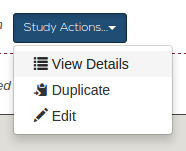
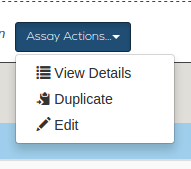
Help page v2

diff --git a/app/views/help.html b/app/views/help.html
@@ -15,103 +15,110 @@
 		<div class="row">
 			<div class="col-xs-12">
 				<div class="well text-center">
-					<em>Jump to</em>: <a ng-click="scrollTo('overview')"><strong class="nexa">Data Overview</strong></a> | <a ng-click="scrollTo('adding-data')"><strong class="nexa">Adding data</strong></a> | <a ng-click="scrollTo('chembl')"><strong class="nexa">Depositing data to Chembl</strong></a> | <a ng-click="scrollTo('searching')"><strong class="nexa">Searching AssayReg</strong></a>
+					<em>Jump to</em>: <a ng-click="scrollTo('overview')"><strong class="nexa">Data Overview</strong></a> | <a ng-click="scrollTo('adding-data')"><strong class="nexa">Adding data</strong></a> | <a ng-click="scrollTo('searching')"><strong class="nexa">Searching AssayReg</strong></a> | <a ng-click="scrollTo('chembl')"><strong class="nexa">Depositing data to Chembl</strong></a> 
 				</div>
 				
 				
 				<h2 class="blue" id="problem">What to do if you have a problem</h2>
-				<p><strong class="nexa blue">If you encounter a problem with anything to do with AssayReg, and this help document does not provide the answer you need, you can use the AssayReg menu box to submit an issue - click the AssayReg logo and select <strong>Report an Issue</strong> Alternatively please contact ChemBio Hub by email at <a href="mailto:info@chembiohub.ox.ac.uk">info@chembiohub.ox.ac.uk</a></strong></p>
+				<p><strong class="nexa blue">If you encounter a problem with AssayReg, and this help document does not provide the answer please use the AssayReg menu box to submit an issue - click the AssayReg logo and select <em>Report an Issue</em> Alternatively please email ChemBio Hub - <a href="mailto:info@chembiohub.ox.ac.uk" role="button" class="btn btn-default"><span class="glyphicon glyphicon-envelope"></span> info@chembiohub.ox.ac.uk</a></strong></p>
 
 				<h2 class="blue" id="loggingin">Logging in and initial screen</h2>
-				<p>When you first successfully log onto AssayReg, you will see a list of available projects. A system administrator is responsible for adding you to projects, which will then be displayed in this list. If you think you should be able to access a project via this list and can't, please contact ChemBio Hub.</p>
-				<p>Each project has a number of options available to you:
+				<p>When you log onto AssayReg, you will see a list of the projects you have been given access to. If you think you should be able to access a project not shown in this list, please contact ChemBio Hub <a href="mailto:info@chembiohub.ox.ac.uk" role="button" class="btn btn-default"><span class="glyphicon glyphicon-envelope"></span> info@chembiohub.ox.ac.uk</a> </p>
+				<p>Each project has a number of options available:
 					<img src="images/help/project-list-item.png" class="img img-responsive center-block">
 					<ul>
-						<li><strong>Project Overview</strong> - click the project title to be taken to the Project Overview page;</li>
-						<li><strong>Add</strong> - Add data to the project via the Project Overview page, subject to the correct access permisions;</li>
-						<li><strong>Search</strong> - Search data in the project via the search page - the project will be preselected, enabling you to filter results further.</li>
+						<!-- <li><strong>Project Data Overview</strong> - click the project title to be taken to the Project Data Overview page;</li> -->
+						<li><strong>Assay</strong> - click <strong>Data Overview</strong> to be taken to the Project Data Overview page;</li>
+						<li><strong>Chem</strong> - you can <strong>Add Compounds</strong> if you have the correct permissions or <strong>Search Compounds</strong></li>
 					</ul>
 				</p>
 
 				<h2 class="blue" id="overview">Project Data Overview</h2>
-				<p>For each project, there is a data overview page. This displays all of the data present in the project, separated out into three levels: <strong>Study</strong>, <strong>Assay</strong> and <strong>Activity</strong>.</p>
+				<p>For each project, there is a data overview page. This displays all of the data present in the project, separated out into three levels: <strong>Sub-Project</strong>, <strong>Assay</strong> and <strong>Activity</strong>.</p>
 
 				<h3 class="blue" id="sections-explained">Project sections - an explanation</h3>
 				<p>Each Project contains 3 sections:
 					<ul>
-						<li><strong>Study</strong> - A study normally holds details for a collection of different assays, for example a set of different Characterisation experiments on a particular drug target.</li>
-						<li><strong>Assay</strong> - An assay normally holds details of experimental protocols and method development, for example data which needs to be provided to make the assay reproducible. Assays can belong to multiple different studies.</li>
-						<li><strong>Activity</strong> - An activity holds the outcome of one pass of an assay, usually machine readouts or more qualitative data. Activity data is specific to a given Assay.</li>
+						<li><strong>Sub-Project</strong> - A sub-project normally holds details for a collection of different assays, for example a set of different Characterisation experiments on a particular drug target.</li>
+						<li><strong>Assay</strong> - An assay normally holds details of experimental protocols and method development, for example data which needs to be provided to make the assay reproducible. Assays can belong to multiple different Sub-Projects.</li>
+						<li><strong>Activity</strong> - An activity holds the single outcome of an Assay, usually machine readouts or more qualitative data. Activity data is specific to a given Assay.</li>
 					</ul>
 				</p>
 
 				<h3 class="blue" id="show-details">Show details</h3>
-				<p>You can see the data for a particular level by clicking the appropriate Actions button and clicking View Details. This will open a popup window with the data loaded.</p>
+				<p>You can see the data for a particular level by clicking the appropriate <strong>Actions</strong> button and clicking View Details. This will open a popup window.</p>
 				<p><img src="images/help/view-details.png" class="img img-responsive center-block"> <img src="images/help/details-modal.png" class="img img-responsive center-block"></p>
 				<p></p>
 
+				<h3 class="blue">Editing</h3>
+				<p>If you have the correct privileges, you can edit data at the Project, Sub Project or Assay level. Click the appropriate <strong>Actions</strong> button and click Edit. A popup window will launch with editable fields containing the data. Make your changes and click <strong>Update and Close</strong>.</p>
+
+				<h3 class="blue">Duplicating</h3>
+				<p>If you have the correct privileges, you can duplicate data at the Project, Sub Project or Assay level. Click the appropriate <strong>Actions</strong> button and click Duplicate. A form will be displayed, similar to the Add Single form (discussed below), with editable fields containing the data. Make any changes, add new data if needed and click <strong>Submit</strong>. this will create a new entity which will be displayed in the Data Overview page.</p>
+
 				<h3 class="blue" >Activity</h3>
-				<p>Activity data for a particular assay is displayed as a table. You can page through the data easily using the buttons at the bottom of the table. If your table contains a lot of data, you can use the scrollbar at the bottom of the table to slide the table from side to side to see all the data.</p>
-				<p>Each row of the Activities table contains a <strong>Duplicate</strong> link in the first column. Clicking this allows you to add a new Activity data point via the Add Single Activity form, with the data from this row prepopulated into the form. Adding Data is discussed in more depth below.</p>
-				<p>If your Activity data contains a UOX ID as used in ChemReg, the system will attempt to load a structure image of that identifier into the table.</p>
+				<p>Activity data for a particular assay is displayed as a table. You can page through the data easily using the buttons at the bottom of the table. If your table contains a lot of columns, you can use the horizontal scrollbar.</p>
+				<p>Each row of the Activities table contains a <strong>Duplicate</strong> link in the first column. This allows you to add a new Activity record via the Add Single Activity form, with the data from this row prepopulated into the form. Adding Data is discussed in more depth below.</p>
+				<p>If your Activity data references a specific compound, an image of that structure will be shown, provided the UOX ID is registered in this project.</p>
 
 				<h3 class="blue" >Filtering activities</h3>
 				<p><img src="images/help/filter-and-download.png" class="img img-responsive center-block"></p>
 				<p></p> 
-				<p>At the top of the Activities section, there is a text box which allows you to filter the Activities based on text entered here. So for example, if you type "dichloro" into the text box, the Activities table will only show rows that contain "dichloro" in any of the columns.</p>
+				<p>At the top of the Activities section is a filter text box. So for example, if you type "dichloro" into the text box, the Activities table will only show rows that contain "dichloro" in any of the columns.</p>
 
 				<h3 class="blue" >Export</h3>
-				<p>Next to the text box on the activities table, there is a Download button. This allows you to download all the results in the table as an Excel file. The downloaded file will include any text filtering you have added - so if you have typed "dichloro" into the search box, your downloaded results will contain only results with "dichloro" in any of the fields. To download unfiltered results, just delete any text from the text box.</p>
+				<p>The <strong>Download</strong> button allows you to download all the results in the table as an Excel file. To download all activity records, ensure the filter text box is blank. Any filteringapplied will be reflected in the exported file.</p>
 
 				<h2 class="blue" id="adding-data">Adding data</h2>
 				<p>If you have the correct permissions, you can add data to the system through the AssayReg user interface.</p>
 
 				<h3 class="blue" >Single record</h3>
 				<p>Adding a single record is the simplest means of getting data into the system. Click <strong>Add Single Activity</strong> and select the correct Assay template to use from the list shown.</p>
-				<p>A form is then displayed with blank fields, each field has a brief explanation of what it represents. Specific datatypes may have special inputs - dates for example may show a datepicker/calendar field.</p>
+				<p><img src="images/help/single-activity-button.png" class="img img-responsive center-block"></p>
+				<p>A form is then displayed with a placeholder for each field defined in this specific assay. Some fields will be limited in what can be input- for example dates will show a datepicker/calendar field.</p>
 				<p><img src="images/help/single-activity.png" class="img img-responsive center-block"></p>
-				<p>When you have added the necessary data, click the Submit button. Your data will be saved and you will be able to view it in the data overview page.</p>
+				<p>When you have added the necessary data, click the Submit button. Your data will be saved and will be vsible in the Activity table.</p>
 
 				<h3 class="blue" >Multiple records (via upload)</h3>
-				<p>To add multiple records to AssayReg in one go, you will need your data in an Excel format. You are able to download a template of the data format by clicking <strong>Upload Multiple Activities</strong> then click <strong>Download (activity) Template</strong> if you would like all of the fields which have been set up for the Assay listed. You can then use this to add your data for a smooth upload.</p>
+				<p>You can add multiple records to AssayReg from an Excel file. To use an accurate list of all relevant fields for the specific assay you can download a template of the data format by clicking <strong>Upload Multiple Activities</strong> then click <strong>Download (activity) Template</strong>. You can then use this to add your data for a smooth upload.</p>
 
-				<p>If instead you have data within another spreadsheet, for example from another lab or from machine outputs, with extra fields that are not required for the Assay you're adding data to, you can also upload that data but you may need to map your data, which is explained later in this document. </p>
+				<p>If you have data in a different spreadsheet format, for example from another lab or from machine outputs, you can also upload that data but you may need to map some or all your data, which is explained later in this document. </p>
 
 				<p>For simple file uploads, follow these steps:<br>
 					<ul>
 						<li>
-							Select the Sub-project and Assay you wish to register the data to. Select ‘Upload multiple activities’. Select the Assay definition you wish to submit your data to.<br>
+							Within the Sub-project and Assay you wish to register the data to, select ‘Upload Multiple Activities’. Select the Assay definition relevant to your data.<br>
 							<p><img src="images/help/multiple-activities-1.png" class="img img-responsive center-block"><br></p>
 						</li>	
 						<li>
-							Select the Assay definition you wish to submit your data to.<br>
-						</li>	
-						<li>
-							A file upload dialog should now be shown. Click upload and choose your data file.<br>
+							Drag your file into the space shown or click upload and choose your data file.<br>
 							<p><img src="images/help/multiple-activities-2.png" class="img img-responsive center-block"><br></p>
 						</li>	
 						<li>
-							If your file contains multiple tabs, select the appropriate one. The data will be previewed below.<br>
+							If your file contains multiple tabs, select the relevant one. The data will be previewed below.<br>
 							<p><img src="images/help/multiple-activities-3.png" class="img img-responsive center-block"><br></p>
 						</li>	
 						<li>
-							If there are no unmapped required fields for this upload, you can click ‘Save this sheet’. Your data is now registered to your project in AssayReg. <br>
+							If all mandatory fields which can't be mapped from your file, you can click ‘Save this sheet’. Your data is now registered to your project in AssayReg. <br>
 							<p><img src="images/help/multiple-activities-4.png" class="img img-responsive center-block"><br></p>
 						</li>
 					</ul>
 				</p>
 
 				<h3 class="blue" >Data mapping</h3>
-				<p>If you are uploading data for your Activities from a file containing lots of supplementary data, you may have to specify which columns in your file correspond to which Activity columns. This is especially important where there are <em>mandatory</em> fields for the specified Activity - that is to say, fields which cannot be empty for a single result.</p>
+				<p>If you are uploading data from a file containing supplementary data, you may have to specify which columns in your file correspond to which Activity columns. This is especially important where there are <em>mandatory</em> fields for the specified Activity - that is to say, fields which cannot be empty for a single result.</p>
 
 				<p>AssayReg uses data mapping to help with data integrity and also to allow conversion to formats required by public databases such as <a href="https://pubchem.ncbi.nlm.nih.gov/about.html" target="_blank">PubChem</a> and <a href="https://www.ebi.ac.uk/chembl/" target="_blank">ChEMBL</a>.</p>
 
 				<h3 class="blue" >Auto mapping</h3>
-				<p>AssayReg will attempt to "automap" your columns to the Activity columns. Columns in your file which match columns in the Activity correctly have a green mapping icon <span class="glyphicon glyphicon-random text-success"></span> . Columns in your file which cannot be automapped have a yellow mapping icon <span class="glyphicon glyphicon-random text-warning"></span> .</p>
+				<p>AssayReg will attempt to "automap" your columns to the Activity columns. Columns in your file with a matching column in the Activity have a green mapping icon <span class="glyphicon glyphicon-random text-success"></span> . Columns in your file which cannot be automapped have a yellow mapping icon <span class="glyphicon glyphicon-random text-warning"></span> .</p>
 
-				<p>You may want to map a column in your file to an Activity column manually if the names are slightly different - for example, you may have a column called "1st Run" in your file and a column called "1st Observation" in the Activity table. They have the same meaning for your work but have been labelled differently. To do this, click the mapping icon in the column you want to map.<br>
+				<p>You will need to map a column in your file to an Activity column manually if the names are slightly different - for example, you may have a column called "1st Run" in your file and a column called "1st Observation" in the Activity table. They have the same meaning for your work but have been labelled differently. To do this, click the mapping icon in the column you want to map.<br>
 					<!-- image -->
 				</p>
+				<p><img src="images/help/filter-icon.png" class="img img-responsive center-block"><br></p>
+				<p>A window wil display which will allow you to specify the field you wish to map to.</p>
+				<p><img src="images/help/mapping-popup.png" class="img img-responsive center-block"><br></p>
 
 				<h3 class="blue" >Unmappable fields</h3>
 				<p>Unmappable fields are caused by data fields in your file not matching the type expected by AssayReg for the Assay you are adding to. For example, you may be mapping your column containing text descriptions to a column expecting numerical values or dates.</p> 
@@ -119,31 +126,33 @@
 				<p>Unmappable fields are shown in the mapping popup window for a particular column. You will see a message stating that there is a data type conflict, and the rows causing the issue (together with the row value) are displayed in a table.</p>
 				<p><img src="images/help/unmappable-fields.png" class="img img-responsive center-block"></p>
 
-				<p>If this happens you should correct the data in your excel file, and try uploading again. If you believe your data to be in the correct format, you should speak to an AssayReg administrator.</p>
+				<p>If this happens you should correct the data in your Excel file, and try uploading again. If you believe your data to be in the correct format, you should contact an AssayReg administrator. <a href="mailto:info@chembiohub.ox.ac.uk" role="button" class="btn btn-default"><span class="glyphicon glyphicon-envelope"></span> info@chembiohub.ox.ac.uk</a></p>
 
 				<h3 class="blue" >Save</h3>
-				<p>Once all of your fields are mapped, you are able to click <strong>Save This Sheet</strong>. Yor data will be saved, the Data Overview page will reload and you will be able to see your data.</p>
+				<p>Once all of your fields are mapped, you are able to click <strong>Save This Sheet</strong>. Your data will be saved, and will be visible in the activities table.</p>
 
 				<h2 class="blue" id="searching">Search page</h2>
-				<p>AssayReg allows you to search for data across projects, studies and assays via the Search Page. You can also carry out text searches via the search bar at the top of every page (including this one).</p>
+				<p>AssayReg allows you to search for data across Projects, Sub-Projects and Assays via the Search Page. You can also carry out text searches via the search bar at the top of every page (including this one).</p>
 
-				<p>The search bar allows you to type text and matches for that text will be instantly displayed. If there are hits for the phrase within Assay, Study or Project titles, you can click those links and see data for that item in the search page.</p>
+				<p>The search bar allows you to type text, with matches for that text displayed instantly below. If the text matches any value in  Assay, Sub-Project or Project titles, you can click those links and see data for that item in the search page.</p>
 
 				<p><img src="images/help/searchbar.png" class="img img-responsive center-block"></p>
 
 				<p>You are also able to search for your text phrase easily on <a href="https://pubchem.ncbi.nlm.nih.gov/about.html" target="_blank">PubChem</a> - just click the link at the bottom, a new window or tab will open in your browser and you will see results for your search displayed on the PubChem website.</p>
 
+				<p>The search results page is shown when you click the <strong>Go</strong> button next to the search bar or select an option below the search bar.</p>
+
 				<h3 class="blue" >Filters</h3>
 				<p>The Search Page allows you to filter the results shown in a number of ways. Whenever a filter is used, the results are updated automatically.</p>
 
 				<h3 class="blue" >Dates</h3>
-				<p>You can specify a date range for when records were added to the system - use the <strong>Activity Date From</strong> and <strong>Activity Date To</strong> datepicker widgets to specify your dates. Results are updated automatically.</p>
+				<p>You can specify a date range for when records were added to the system - use the <strong>Activity Date From</strong> and <strong>Activity Date To</strong> calendar fields to specify your dates. Results are updated automatically.</p>
 
 				<h3 class="blue" >User</h3>
-				<p>You can specify the user or users who uploaded the data you wish to see, based on your system permissions. Pick the names of users from the dropdown list, and they will be displayed as a tag list in the search box. You can remove any users you have selected. Results are updated automatically.</p>
+				<p>You can specify the user or users who uploaded the data you wish to see. Select the names of users from the dropdown list, and they will be displayed as a tag list in the search box. You can remove any users you have selected. Results are updated automatically.</p>
 
-				<h3 class="blue" >Project / Study / Assay filtering</h3>
-				<p>You can specify the Project, Study or Assay the results belong to using the appropriate search fields. Pick the names of the project/study/assay you want to narrow results down by from the dropdown list, and they are displayed as a tag list in the search box. You can remove items as you need to. Results are updated automatically.</p>
+				<h3 class="blue" >Project / Sub-Project / Assay filtering</h3>
+				<p>You can specify the Project, Sub-Project or Assay the results belong to using the appropriate search fields. Pick the names of the Project/Sub-Project/Assay you want to narrow results down by from the dropdown list, and they are displayed as a tag list in the search box. You can remove items as you need to. Results are updated automatically.</p>
 
 				<h3 class="blue" >Text filtering</h3>
 				<p>At the top of the Results table section, there is a text box which allows you to filter the Activities based on text entered here. So for example, if you type "dichloro" into the text box, the Activities table will only show rows that contain "dichloro" in any of the columns, in addition to any other filters you have applied via the search form.</p>
